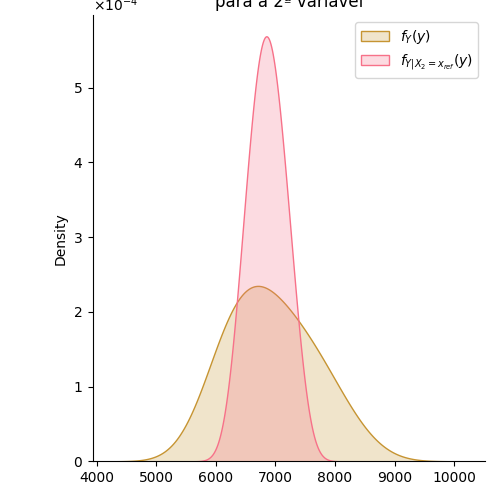
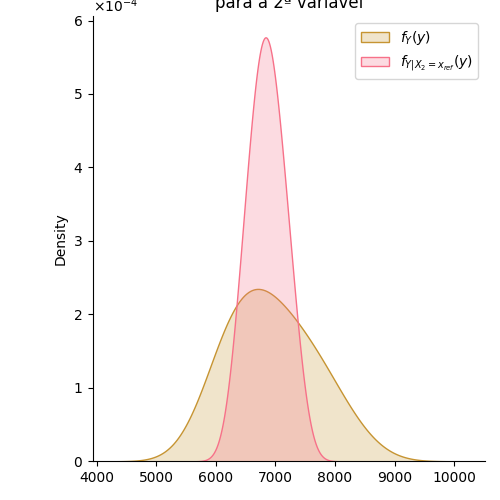
FinalCode

diff --git a/SensitivityAnalysisPresentation.py b/SensitivityAnalysisPresentation.py
@@ -196,12 +196,12 @@ def createGeneralizedTornadoDiagram(posSensitivities,negSensitivities,fName):
     ax.set_yticks((1+np.arange(numVars)), labels = varN)
     ax.set_xlabel('$\Delta y$')
     ax.set_title('Generalized Tornado Diagram')
-    legendHiddenLine = [plt.Line2D([0], [0], color='darkgreen', lw=4, label = '$S_{+}$'),
-                        plt.Line2D([0], [0], color='limegreen', lw=4, label = '$S_{-}$'),
-                        plt.Line2D([0], [0], color='navy',      lw=4, label = '$S_{T+}$'),
-                        plt.Line2D([0], [0], color='royalblue', lw=4, label = '$S_{T-}$'),
-                        plt.Line2D([0], [0], color='darkorange',lw=4, label = '$S_{I+}$'),
-                        plt.Line2D([0], [0], color='gold',      lw=4, label = '$S_{I-}$')]
+    legendHiddenLine = [plt.Line2D([0], [0], color='darkgreen', lw=4, label = '$\phi_{+}$'),
+                        plt.Line2D([0], [0], color='limegreen', lw=4, label = '$\phi_{-}$'),
+                        plt.Line2D([0], [0], color='navy',      lw=4, label = '$\phi^T_{+}$'),
+                        plt.Line2D([0], [0], color='royalblue', lw=4, label = '$\phi^T_{-}$'),
+                        plt.Line2D([0], [0], color='darkorange',lw=4, label = '$\phi^I_{+}$'),
+                        plt.Line2D([0], [0], color='gold',      lw=4, label = '$\phi^I_{-}$')]
     ax.legend(handles = legendHiddenLine, loc = 'upper left')
     ax.spines['left'].set_visible(False)
     ax.spines['right'].set_visible(False)
@@ -365,8 +365,24 @@ def runGlobalAnalysis():
         np.savetxt('./MonteCarloSims/HarrisMonteCarlo_Results.txt',montecarloResults)
         saveToLog('./MonteCarloSims/HarrisMonteCarlo_Results.txt', 'write')        
 
-    sns.displot(montecarloResults, kind="kde", bw_adjust=10)
+    sns.displot(montecarloResults, kind="kde", bw_adjust=5)
+    ax = plt.gca()
+    tickerFormatter = ticker.ScalarFormatter( useMathText=True )
+    tickerFormatter.set_scientific(True)
+    tickerFormatter.set_powerlimits((-2,3))
+    ax.yaxis.set_major_formatter(tickerFormatter)
+    ax.set_ylabel(r'$f_{Y}(y)$')
+    ax.set_xlabel('y')
+    ax.set_title('Função de Densidade Empírica')
+    plt.savefig('./Results/Global/UncAnaPDF.png')
+
     sns.displot(montecarloResults,kind="ecdf")
+    ax = plt.gca()
+    ax.set_ylabel(r'$F_{Y}(y)$')
+    ax.set_xlabel('y')
+    ax.set_title('Função de Distribuição Acumulada')
+    plt.savefig('./Results/Global/UncAnaCDF.png')
+    saveToLog('./Results/Global/UncAnaCDF.png & ./Results/Global/UncAnaPDF.png','write')
 
     # Linear Regression Coeff
     tempA = np.concatenate([montecarloInputs,np.ones((len(montecarloResults),1))],axis=1)
@@ -379,6 +395,7 @@ def runGlobalAnalysis():
     outVariance = np.var(montecarloResults)
     outMean = np.mean(montecarloResults)
     outSTDev = np.sqrt(outVariance)
+    print('Média de Y = {:.2f}\t Desvio Padrão de Y = {:.2f}'.format(outMean,outSTDev))
 
     covInput = np.concatenate([montecarloResults.reshape((len(montecarloResults),1)), montecarloInputs],axis=1)
     covMatrix = np.cov(covInput,rowvar=False)
@@ -496,6 +513,8 @@ def runGlobalAnalysis():
 #   Density based method
     reference_KDE = stats.gaussian_kde(montecarloResults)
     deltas = [0]*len(REFERENCE_VALUES_HARRIS_EOQ)
+    integraLowerBound = (1-0.5*np.sign(np.min(montecarloResults)))*np.min(montecarloResults)
+    integralUpperBound = (1+0.5*np.sign(np.max(montecarloResults)))*np.max(montecarloResults)
     for i in range(len(REFERENCE_VALUES_HARRIS_EOQ)):
         varSpace = REFERENCE_VALUES_HARRIS_EOQ[i] * rng.uniform(H_GLOBAL_VMIN[i],H_GLOBAL_VMAX[i], size = 100)
         innerStatistics = []
@@ -506,8 +525,8 @@ def runGlobalAnalysis():
                                     REFERENCE_VALUES_HARRIS_EOQ[index]*rng.uniform(H_GLOBAL_VMIN[index],H_GLOBAL_VMAX[index],GLOBAL_SIM_SIZE) 
                                     for index in range(len(REFERENCE_VALUES_HARRIS_EOQ))])
             var_KDE = stats.gaussian_kde(harrisResults)
-            innerStatistics.append(integrate.quad(lambda y: np.abs(reference_KDE.evaluate(y)-var_KDE.evaluate(y)),3000,outMean,limit=50)[0] +
-                                   integrate.quad(lambda y: np.abs(reference_KDE.evaluate(y)-var_KDE.evaluate(y)),outMean,11000,limit=50)[0]
+            innerStatistics.append(integrate.quad(lambda y: np.abs(reference_KDE.evaluate(y)-var_KDE.evaluate(y)),integraLowerBound,outMean,limit=50)[0] +
+                                   integrate.quad(lambda y: np.abs(reference_KDE.evaluate(y)-var_KDE.evaluate(y)),outMean,integralUpperBound,limit=50)[0]
                                    )
         deltas[i] = 0.5*np.mean(innerStatistics)
     np.savetxt('./Results/Global/Deltas.txt', deltas, fmt='%.8f')
